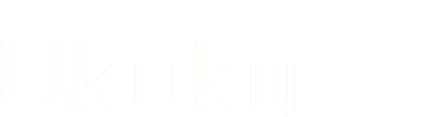
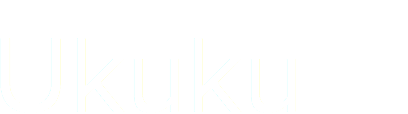
Fix texfield in CreateNewSpecie

Changed region(s): [[0.3235, 0.5263, 0.3529, 0.8421]]

diff --git a/Ukuku/JSCreateSpecieVC.m b/Ukuku/JSCreateSpecieVC.m
@@ -83,7 +83,7 @@
 
 -(void)configureViewLook {
     
-    [self configureTextFields];
+    [self configureTextField];
     [self configureTextView];
     [self configureScroller];
     [self configureNavigationBar];
@@ -92,12 +92,10 @@
 
 }
 
+-(void)configureTextField {
 
-
--(void)configureTextFields {
-    
-    [self.nameTextField setPlaceholder:@"  Nombre" andTextFieldBackgroundColor:[UIColor whiteColor]];
-    [self.cientificNameTextField setPlaceholder:@"  Nombre Cientifico" andTextFieldBackgroundColor:[UIColor whiteColor]];
+    [self.nameTextField setPlaceholder:@"Nombre" andTextFieldBackgroundColor:[UIColor whiteColor]];
+    [self.cientificNameTextField setPlaceholder:@"Nombre Cientifico" andTextFieldBackgroundColor:[UIColor whiteColor]];
 
 }
 
@@ -174,6 +172,26 @@
     
 }
 
+#pragma mark - UITextViewDelegate Methods
+
+- (void)textViewDidBeginEditing:(UITextView *)textView
+{
+    if ([textView.text isEqualToString:@"Descripcion"]) {
+        textView.text = @"";
+        textView.textColor = [UIColor whiteColor]; //optional
+    }
+    [textView becomeFirstResponder];
+}
+
+- (void)textViewDidEndEditing:(UITextView *)textView
+{
+    if ([textView.text isEqualToString:@""]) {
+        textView.text = @"Descripcion";
+        textView.textColor = [UIColor whiteColor]; //optional
+    }
+    [textView resignFirstResponder];
+}
+
 - (IBAction)savePressed:(id)sender {
     
     JSCreateNC *nav = (JSCreateNC *)self.navigationController;
@@ -242,26 +260,6 @@
     [self dismissViewControllerAnimated:YES completion:nil];
 }
 
-
-#pragma mark - UITextViewDelegate Methods
-
-- (void)textViewDidBeginEditing:(UITextView *)textView
-{
-    if ([textView.text isEqualToString:@"Descripcion"]) {
-        textView.text = @"";
-        textView.textColor = [UIColor whiteColor]; //optional
-    }
-    [textView becomeFirstResponder];
-}
-
-- (void)textViewDidEndEditing:(UITextView *)textView
-{
-    if ([textView.text isEqualToString:@""]) {
-        textView.text = @"Descripcion";
-        textView.textColor = [UIColor whiteColor]; //optional
-    }
-    [textView resignFirstResponder];
-}
 
 
 
